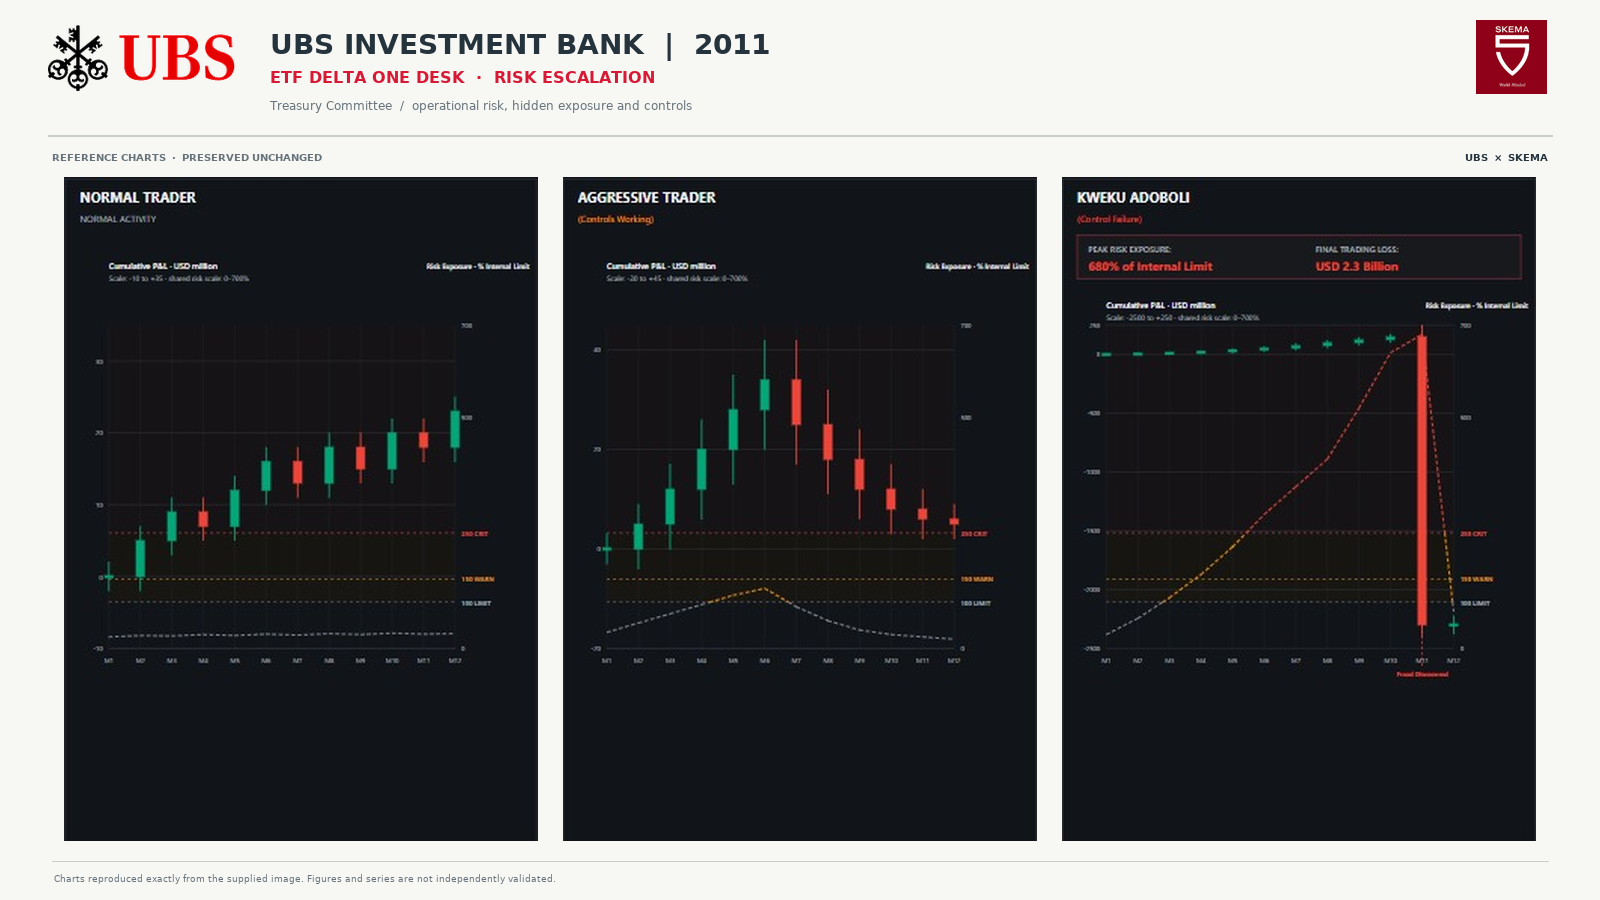
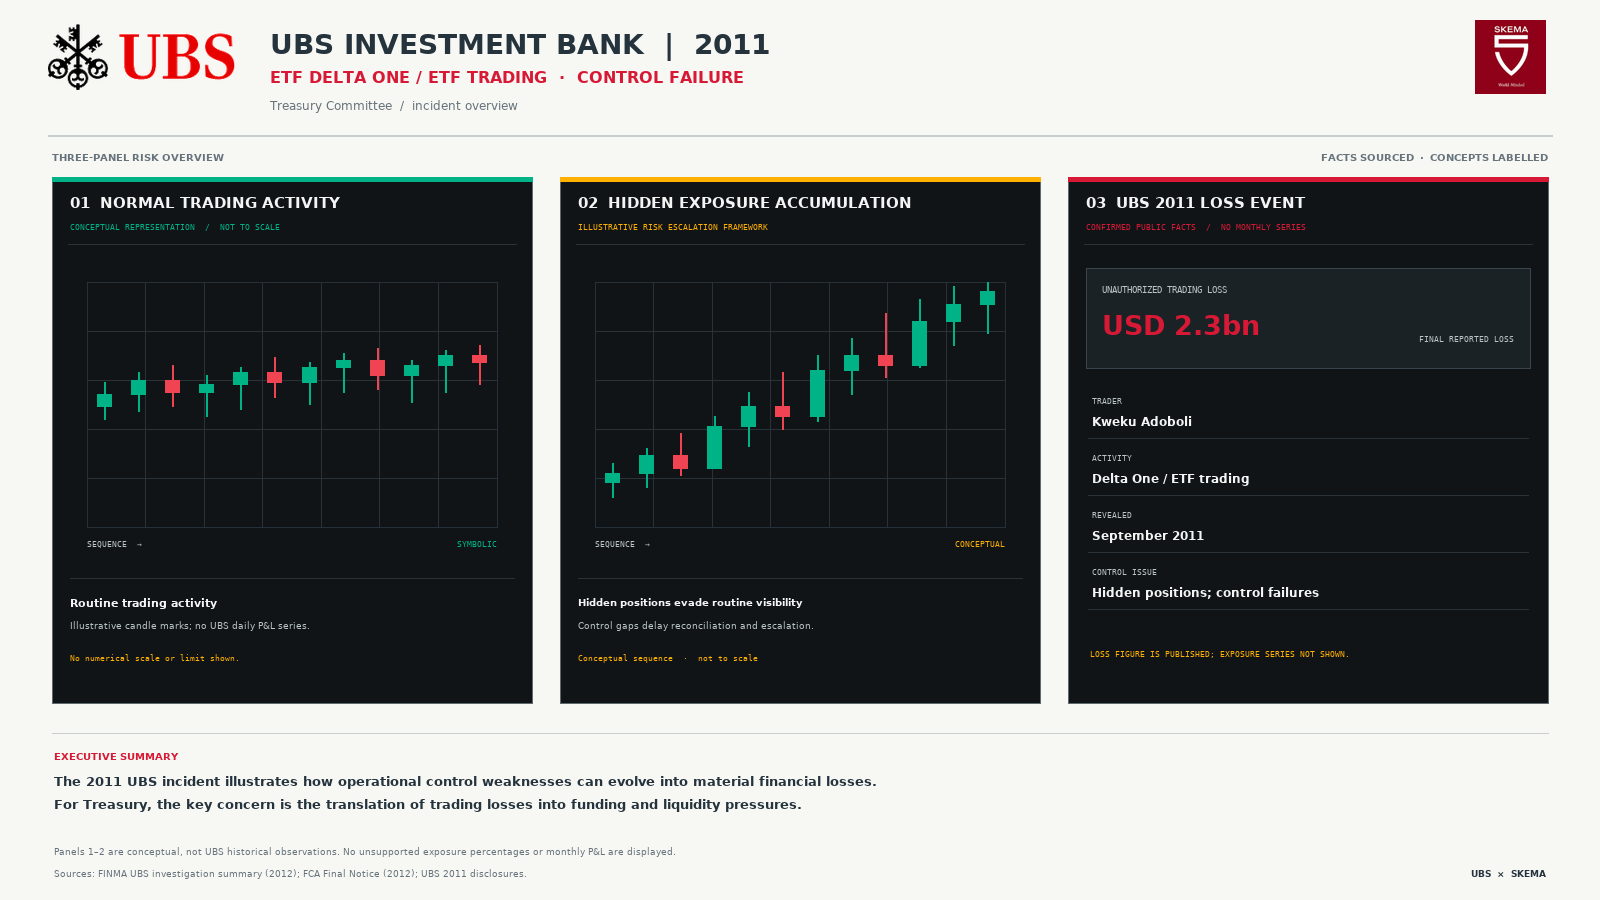
Use factual three-panel UBS incident summary

diff --git a/documents/build_ubs_dashboard_restyle.py b/documents/build_ubs_dashboard_restyle.py
@@ -3,55 +3,119 @@ from PIL import Image, ImageDraw, ImageFont
 
 ROOT=Path(__file__).resolve().parent
 ASSETS=ROOT/'assets'
-SOURCE=ASSETS/'ubs-dashboard-reference.png'
 OUT=ROOT/'ubs-dashboard-ubs-palette.png'
 W,H=1600,900
-BG='#F7F7F4'; INK='#25333D'; MUTED='#66737B'; RULE='#C8CDCE'; UBS_RED='#D71935'; UBS_GOLD='#D69A36'
+PAGE='#F7F7F4'; INK='#25333D'; MUTED='#66737B'; RULE='#C8CDCE'
+CHART='#101417'; CHART_RULE='#293238'; CHART_TEXT='#BAC3C7'; WHITE='#F3F5F5'
+UBS_RED='#D71935'; GREEN='#00B386'; RED='#F04452'; AMBER='#FFB000'; CYAN='#48B8D0'
 FONT='/usr/share/fonts/truetype/dejavu/DejaVuSans.ttf'
 BOLD='/usr/share/fonts/truetype/dejavu/DejaVuSans-Bold.ttf'
+MONO='/usr/share/fonts/truetype/dejavu/DejaVuSansMono.ttf'
 
-im=Image.new('RGB',(W,H),BG)
-d=ImageDraw.Draw(im)
-fonts={}
-def f(n,b=False):
-    key=(n,b)
-    if key not in fonts:fonts[key]=ImageFont.truetype(BOLD if b else FONT,n)
-    return fonts[key]
-def text(x,y,s,n=16,color=INK,b=False,anchor=None):d.text((x,y),s,font=f(n,b),fill=color,anchor=anchor)
+im=Image.new('RGB',(W,H),PAGE);d=ImageDraw.Draw(im);fonts={}
+def f(size,b=False,m=False):
+    k=(size,b,m)
+    if k not in fonts:fonts[k]=ImageFont.truetype(MONO if m else (BOLD if b else FONT),size)
+    return fonts[k]
+def txt(x,y,s,size=16,color=INK,b=False,anchor=None,mono=False):d.text((x,y),s,font=f(size,b,mono),fill=color,anchor=anchor)
+def line(x1,y1,x2,y2,color=RULE,width=1):d.line((x1,y1,x2,y2),fill=color,width=width)
+def rect(box,fill,outline=None,width=1):d.rectangle(box,fill=fill,outline=outline,width=width)
+def dashed(x1,y1,x2,y2,color,width=1,dash=7,gap=5):
+    if abs(y2-y1)<1:
+        x=x1
+        while x<x2:d.line((x,y1,min(x+dash,x2),y2),fill=color,width=width);x+=dash+gap
+    else:
+        y=y1
+        while y<y2:d.line((x1,y,x2,min(y+dash,y2)),fill=color,width=width);y+=dash+gap
 
-# Preserve the user-supplied chart panels pixel-for-pixel. Only the page around them is redesigned.
-source=Image.open(SOURCE).convert('RGB')
-regions=[(18,80,333,520),(344,80,658,520),(669,80,983,520)]
-# White ExCo/Treasury Committee masthead.
-ubs=Image.open(ASSETS/'ubs-logo.png').convert('RGBA')
-pix=ubs.load()
-for yy in range(ubs.height):
-    for xx in range(ubs.width):
-        r,g,b,a=pix[xx,yy]
-        if r>246 and g>246 and b>246:pix[xx,yy]=(255,255,255,0)
-ubs.thumbnail((188,66),Image.Resampling.LANCZOS)
-im.paste(ubs,(48,25),ubs)
-skema=Image.open(ASSETS/'skema-logo.png').convert('RGBA')
-skema.thumbnail((74,74),Image.Resampling.LANCZOS)
-im.paste(skema,(1476,20),skema)
-text(270,28,'UBS INVESTMENT BANK  |  2011',28,INK,True)
-text(270,68,'ETF DELTA ONE DESK  ·  RISK ESCALATION',16,UBS_RED,True)
-text(270,98,'Treasury Committee  /  operational risk, hidden exposure and controls',12,MUTED)
-d.line((48,135,1552,135),fill=RULE,width=2)
-text(52,151,'REFERENCE CHARTS  ·  PRESERVED UNCHANGED',10,MUTED,True)
-text(1548,151,'UBS  ×  SKEMA',10,INK,True,anchor='ra')
+def logo_ubs():
+    imlogo=Image.open(ASSETS/'ubs-logo.png').convert('RGBA');p=imlogo.load()
+    for yy in range(imlogo.height):
+        for xx in range(imlogo.width):
+            r,g,b,a=p[xx,yy]
+            if r>246 and g>246 and b>246:p[xx,yy]=(255,255,255,0)
+    imlogo.thumbnail((188,66),Image.Resampling.LANCZOS);im.paste(imlogo,(48,24),imlogo)
+def logo_skema():
+    imlogo=Image.open(ASSETS/'skema-logo.png').convert('RGBA');imlogo.thumbnail((74,74),Image.Resampling.LANCZOS);im.paste(imlogo,(1475,20),imlogo)
 
-# The original three terminal panels (including all Japanese candlesticks, legends, axes,
-# labels, and linework) are pasted without edits, recoloring, redrawing, or data changes.
-boxes=[(64,177,474,664),(563,177,474,664),(1062,177,474,664)]
-for region,box in zip(regions,boxes):
-    crop=source.crop(region)
-    crop=crop.resize((box[2],box[3]),Image.Resampling.LANCZOS)
-    im.paste(crop,(box[0],box[1]))
+# White ExCo/Treasury Committee page with terminal-style chart inserts.
+logo_ubs();logo_skema()
+txt(270,28,'UBS INVESTMENT BANK  |  2011',28,INK,True)
+txt(270,68,'ETF DELTA ONE / ETF TRADING  ·  CONTROL FAILURE',16,UBS_RED,True)
+txt(270,98,'Treasury Committee  /  incident overview',12,MUTED)
+line(48,135,1552,135,RULE,2)
+txt(52,151,'THREE-PANEL RISK OVERVIEW',10,MUTED,True)
+txt(1548,151,'FACTS SOURCED  ·  CONCEPTS LABELLED',10,MUTED,True,anchor='ra')
 
-# Committee note remains outside the unmodified chart images.
-d.line((52,861,1548,861),fill=RULE,width=1)
-text(54,873,'Charts reproduced exactly from the supplied image. Figures and series are not independently validated.',9,MUTED)
+xs=[52,560,1068]; py=177; pw=480; ph=526
+
+def panel(x,num,title,accent,sub):
+    rect((x,py,x+pw,py+ph),CHART,'#5F6970',1)
+    rect((x,py,x+pw,py+4),accent)
+    txt(x+18,py+17,f'{num}  {title}',15,WHITE,True)
+    txt(x+18,py+45,sub,8,accent,True,mono=True)
+    line(x+16,py+67,x+pw-16,py+67,CHART_RULE,1)
+
+def draw_candles(x,y,w,h,ohlc,caption,caption_color):
+    # Abstract candlesticks only: no numeric axis, no dates, no implied UBS observations.
+    rect((x,y,x+w,y+h),CHART,'#253038',1)
+    for i in range(1,5):line(x,y+i*h/5,x+w,y+i*h/5,CHART_RULE,1)
+    for i in range(1,7):line(x+i*w/7,y,x+i*w/7,y+h,CHART_RULE,1)
+    step=w/len(ohlc);bw=max(8,int(step*.43))
+    for i,(low,high,op,cl) in enumerate(ohlc):
+        cx=x+step*(i+.5)
+        col=GREEN if cl>=op else RED
+        ylow=y+h*(1-low);yhigh=y+h*(1-high);yop=y+h*(1-op);ycl=y+h*(1-cl)
+        line(cx,yhigh,cx,ylow,col,2)
+        top=min(yop,ycl);bottom=max(yop,ycl)
+        rect((int(cx-bw/2),int(top),int(cx+bw/2),max(int(top)+3,int(bottom))),col)
+    txt(x,y+h+12,'SEQUENCE  →',8,CHART_TEXT,False,mono=True)
+    txt(x+w,y+h+12,caption,8,caption_color,True,anchor='ra',mono=True)
+
+# 1. Normal activity: only symbolic candlesticks, explicitly not scaled or historical.
+x=xs[0];panel(x,'01','NORMAL TRADING ACTIVITY',GREEN,'CONCEPTUAL REPRESENTATION  /  NOT TO SCALE')
+normal=[(.44,.59,.49,.54),(.47,.63,.54,.60),(.49,.66,.60,.55),(.45,.62,.55,.58),(.48,.65,.58,.63),(.53,.69,.63,.59),(.50,.67,.59,.65),(.55,.71,.65,.68),(.56,.73,.68,.62),(.51,.68,.62,.66),(.55,.72,.66,.70),(.58,.74,.70,.67)]
+draw_candles(x+35,py+105,pw-70,245,normal,'SYMBOLIC',GREEN)
+line(x+18,py+401,x+pw-18,py+401,CHART_RULE,1)
+txt(x+18,py+419,'Routine trading activity',11,WHITE,True)
+txt(x+18,py+443,'Illustrative candle marks; no UBS daily P&L series.',9,CHART_TEXT)
+txt(x+18,py+476,'No numerical scale or limit shown.',8,AMBER,True,mono=True)
+
+# 2. Hidden exposure accumulation: conceptual sequence, no invented metrics or time series.
+x=xs[1];panel(x,'02','HIDDEN EXPOSURE ACCUMULATION',AMBER,'ILLUSTRATIVE RISK ESCALATION FRAMEWORK')
+hidden=[(.12,.26,.18,.22),(.16,.32,.22,.29),(.21,.38,.29,.24),(.25,.45,.24,.41),(.33,.55,.41,.49),(.40,.63,.49,.45),(.43,.70,.45,.64),(.54,.77,.64,.70),(.61,.87,.70,.66),(.65,.93,.66,.84),(.74,.98,.84,.91),(.79,1.0,.91,.96)]
+draw_candles(x+35,py+105,pw-70,245,hidden,'CONCEPTUAL',AMBER)
+# qualitative annotations only, no internal threshold or percentages
+line(x+18,py+401,x+pw-18,py+401,CHART_RULE,1)
+txt(x+18,py+419,'Hidden positions evade routine visibility',10,WHITE,True)
+txt(x+18,py+443,'Control gaps delay reconciliation and escalation.',9,CHART_TEXT)
+txt(x+18,py+476,'Conceptual sequence  ·  not to scale',8,AMBER,True,mono=True)
+
+# 3. UBS 2011 facts only; no invented monthly exposure chart.
+x=xs[2];panel(x,'03','UBS 2011 LOSS EVENT',UBS_RED,'CONFIRMED PUBLIC FACTS  /  NO MONTHLY SERIES')
+# loss callout
+rect((x+18,py+91,x+pw-18,py+191),'#1B2226','#39454C',1)
+txt(x+34,py+107,'UNAUTHORIZED TRADING LOSS',9,CHART_TEXT,True,mono=True)
+txt(x+34,py+132,'USD 2.3bn',27,UBS_RED,True)
+txt(x+pw-34,py+157,'FINAL REPORTED LOSS',8,CHART_TEXT,False,anchor='ra',mono=True)
+# fact table
+facts=[('TRADER','Kweku Adoboli'),('ACTIVITY','Delta One / ETF trading'),('REVEALED','September 2011'),('CONTROL ISSUE','Hidden positions; control failures')]
+for i,(label,value) in enumerate(facts):
+    yy=py+219+i*57
+    line(x+20,yy+42,x+pw-20,yy+42,CHART_RULE,1)
+    txt(x+24,yy,label,8,CHART_TEXT,True,mono=True)
+    txt(x+24,yy+18,value,12,WHITE,True)
+# limited source note within panel
+txt(x+22,py+472,'LOSS FIGURE IS PUBLISHED; EXPOSURE SERIES NOT SHOWN.',8,AMBER,True,mono=True)
+
+# Two-sentence executive takeaway, per user wording.
+line(52,733,1548,733,RULE,1)
+txt(54,750,'EXECUTIVE SUMMARY',10,UBS_RED,True)
+txt(54,773,'The 2011 UBS incident illustrates how operational control weaknesses can evolve into material financial losses.',13,INK,True)
+txt(54,796,'For Treasury, the key concern is the translation of trading losses into funding and liquidity pressures.',13,INK,True)
+txt(54,846,'Panels 1–2 are conceptual, not UBS historical observations. No unsupported exposure percentages or monthly P&L are displayed.',9,MUTED)
+txt(54,868,'Sources: FINMA UBS investigation summary (2012); FCA Final Notice (2012); UBS 2011 disclosures.',9,MUTED)
+txt(1546,868,'UBS  ×  SKEMA',9,INK,True,anchor='ra')
 
 im.save(OUT)
 print(OUT)
